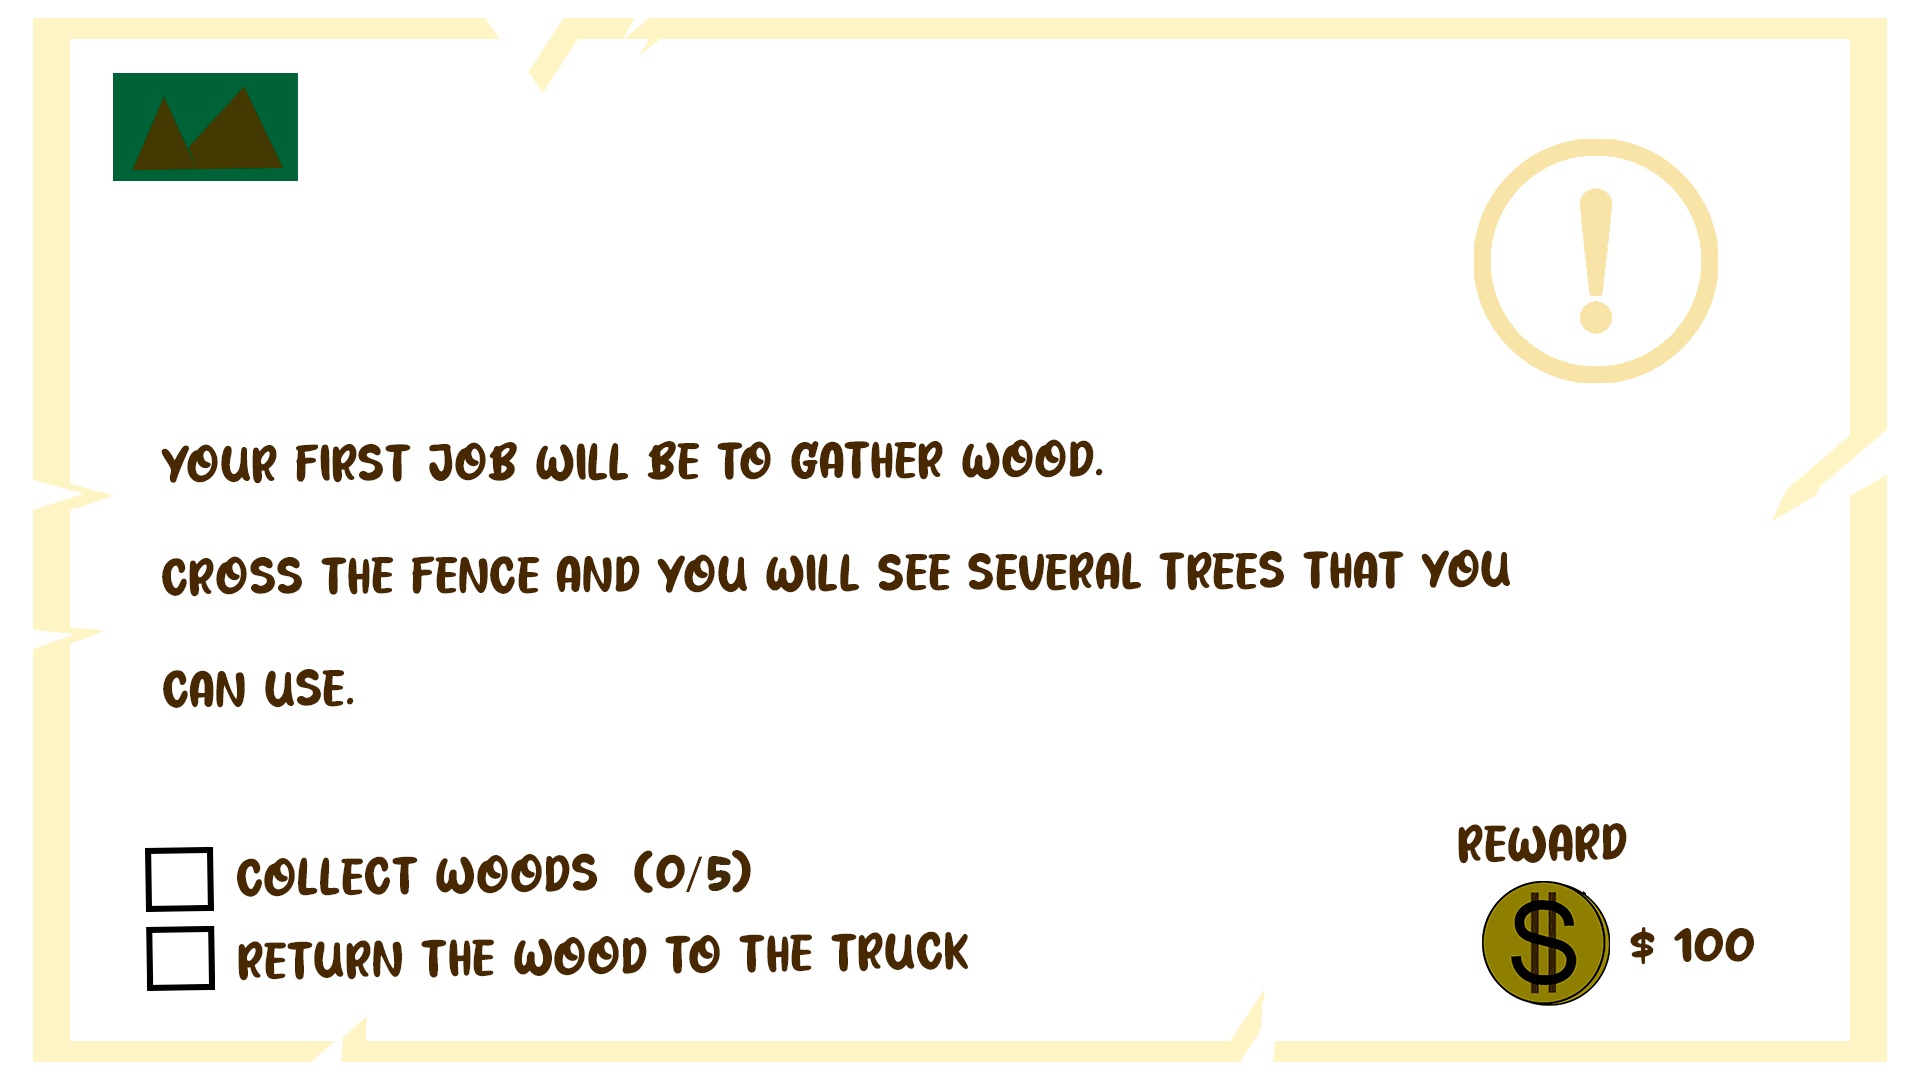
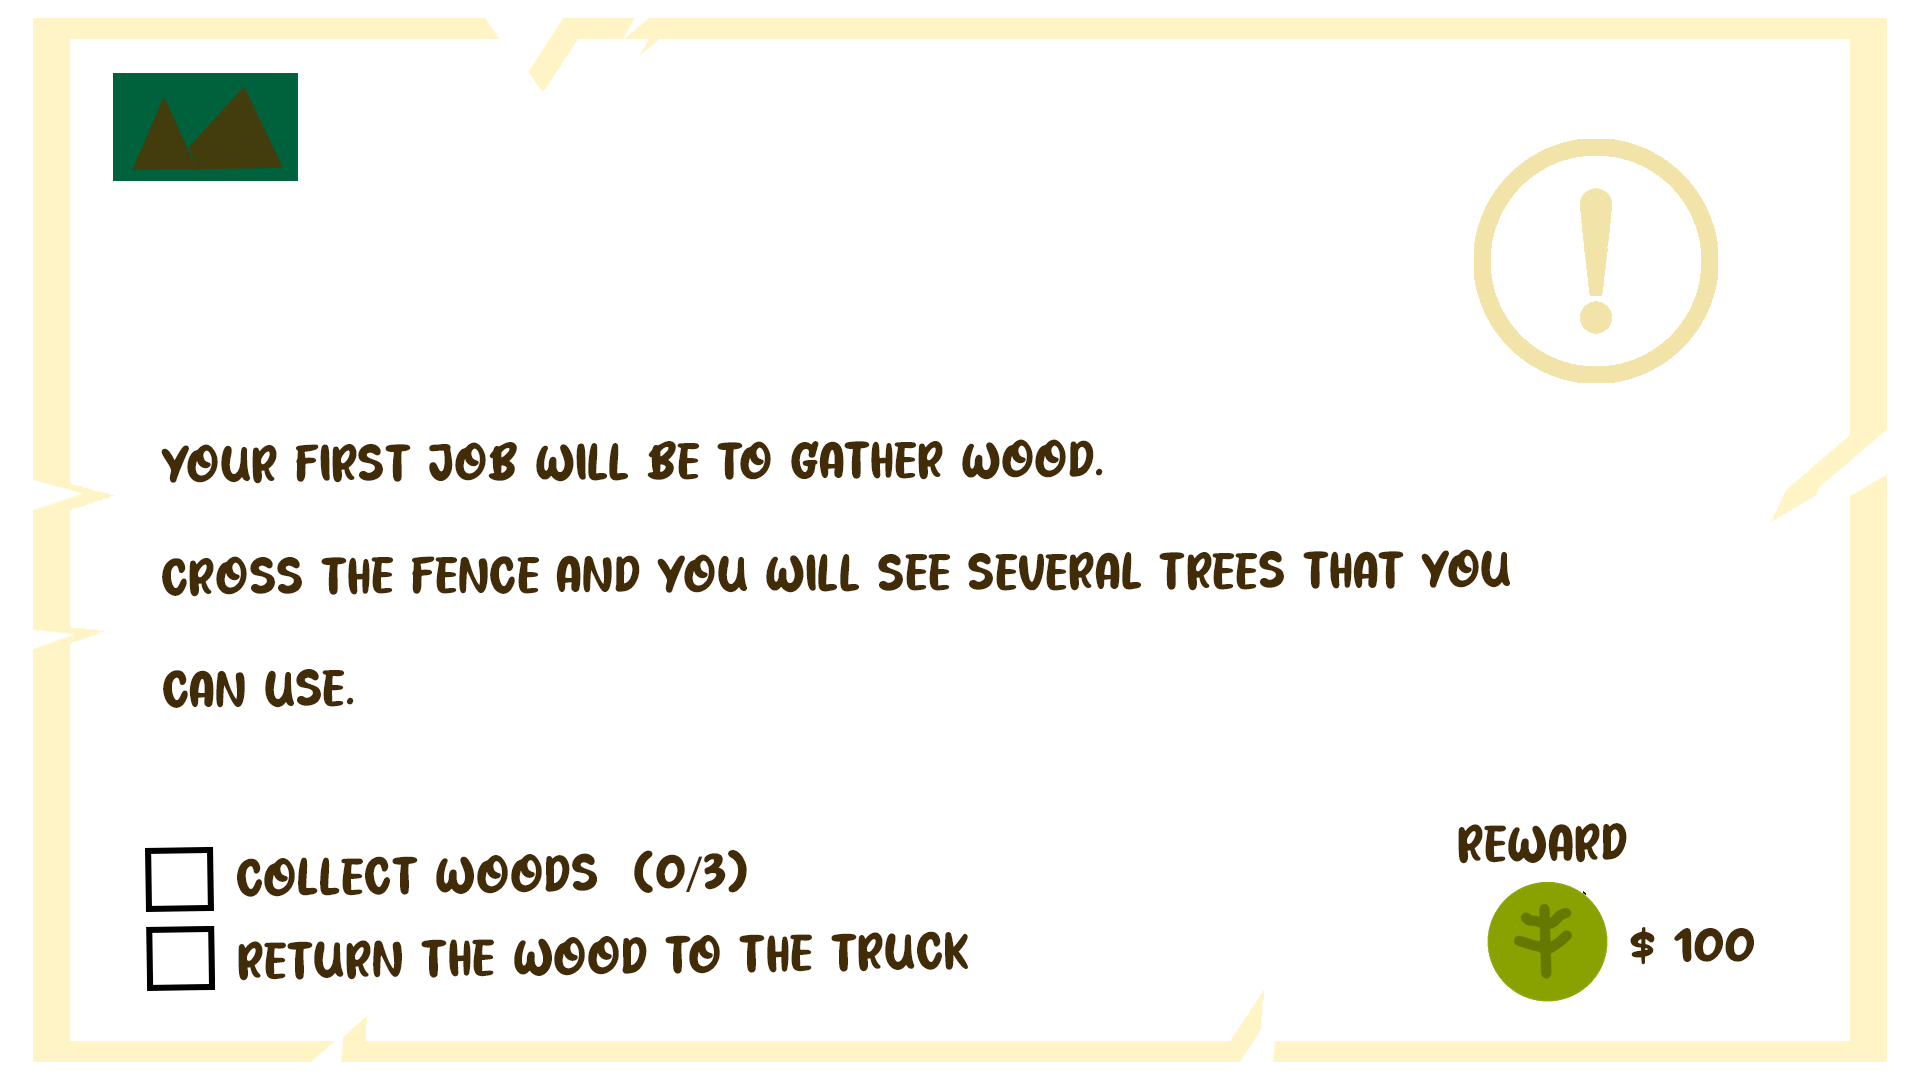
Fix cantidad carta quest 1 + player cinem

Changed region(s): [[0.75, 0.7944, 0.8438, 0.9472], [0.3438, 0.7944, 0.4062, 0.825]]

diff --git a/Assets/2024/Scripts/Isla 1/Chain Quest/Florist Chain Quest/FloristChain1.cs b/Assets/2024/Scripts/Isla 1/Chain Quest/Florist Chain Quest/FloristChain1.cs
@@ -90,6 +90,7 @@ public class FloristChain1 : MonoBehaviour
         
         else if (_questActive)
             _textInventoryFlowers.text = "x " + _inventory.flowers.ToString() + "/" + _flowersRequired.ToString();
+
     }
 
     private void SetDialogue()
@@ -115,7 +116,8 @@ public class FloristChain1 : MonoBehaviour
         _dialogue.Close();
         _iconInteract.SetActive(false);
         Destroy(_iconQuest);
-        _gm.ActiveTutorialChain();
+
+        //_gm.ActiveTutorialChain();
         _canvasIconsChainsQuests.SetActive(true);
         _iconFlowers.SetActive(true);
         //_doTween.ShowLootCoroutine(_sliderActivation);
@@ -125,6 +127,12 @@ public class FloristChain1 : MonoBehaviour
         {
             item.gameObject.SetActive(true);
             item.ActiveChainQuest();
+        }
+
+        if (!_gm.chainsActive)
+        {
+            _gm.chainsActive = true;
+            _gm.ActiveTutorialChain();
         }
 
         _questActive = true;

diff --git a/Assets/2024/Scripts/Game Manager/Manager.cs b/Assets/2024/Scripts/Game Manager/Manager.cs
@@ -87,6 +87,11 @@ public class Manager : MonoBehaviour
         }
     }
 
+    private void Update()
+    {
+        if (_camScenario != null && _camScenario.gameObject.activeSelf) _player.FreezePlayer(); // Fix para que el player quede bloqueado en la cinematica del tutorial de chain quests.
+    }
+
     private void BeginGame()
     {
         _quest1.enabled = false;
@@ -218,8 +223,10 @@ public class Manager : MonoBehaviour
 
     public void ActiveTutorialChain()
     {
-        if (!chainsActive) StartCoroutine(TutorialChain());
-        else return;
+        //if (!chainsActive) StartCoroutine(TutorialChain());
+        //else return;
+
+        StartCoroutine(TutorialChain());
     }
 
     private IEnumerator TutorialChain()
@@ -265,5 +272,7 @@ public class Manager : MonoBehaviour
 
         yield return new WaitForSeconds(0.6f);
         _boxMessage.gameObject.SetActive(false);
+
+        
     }
 }

diff --git a/Assets/2024/Scripts/Isla 1/Chain Quest/ArchaeologistQuest1.cs b/Assets/2024/Scripts/Isla 1/Chain Quest/ArchaeologistQuest1.cs
@@ -79,7 +79,15 @@ public class ArchaeologistQuest1 : MonoBehaviour
         _myCol.enabled = false;
         _dialogue.Close();
         _iconInteract.SetActive(false);
-        _gm.ActiveTutorialChain();
+
+        if (!_gm.chainsActive)
+        {
+            _player.FreezePlayer();
+            _gm.chainsActive = true;
+            _gm.ActiveTutorialChain();
+        }
+
+        //_gm.ActiveTutorialChain();
         _canvasIconsChainsQuests.SetActive(true);
         _iconTreasure.SetActive(true);
         //_message.AddIconInventory(_boxMessage, _textSlide, "Added to inventory");
